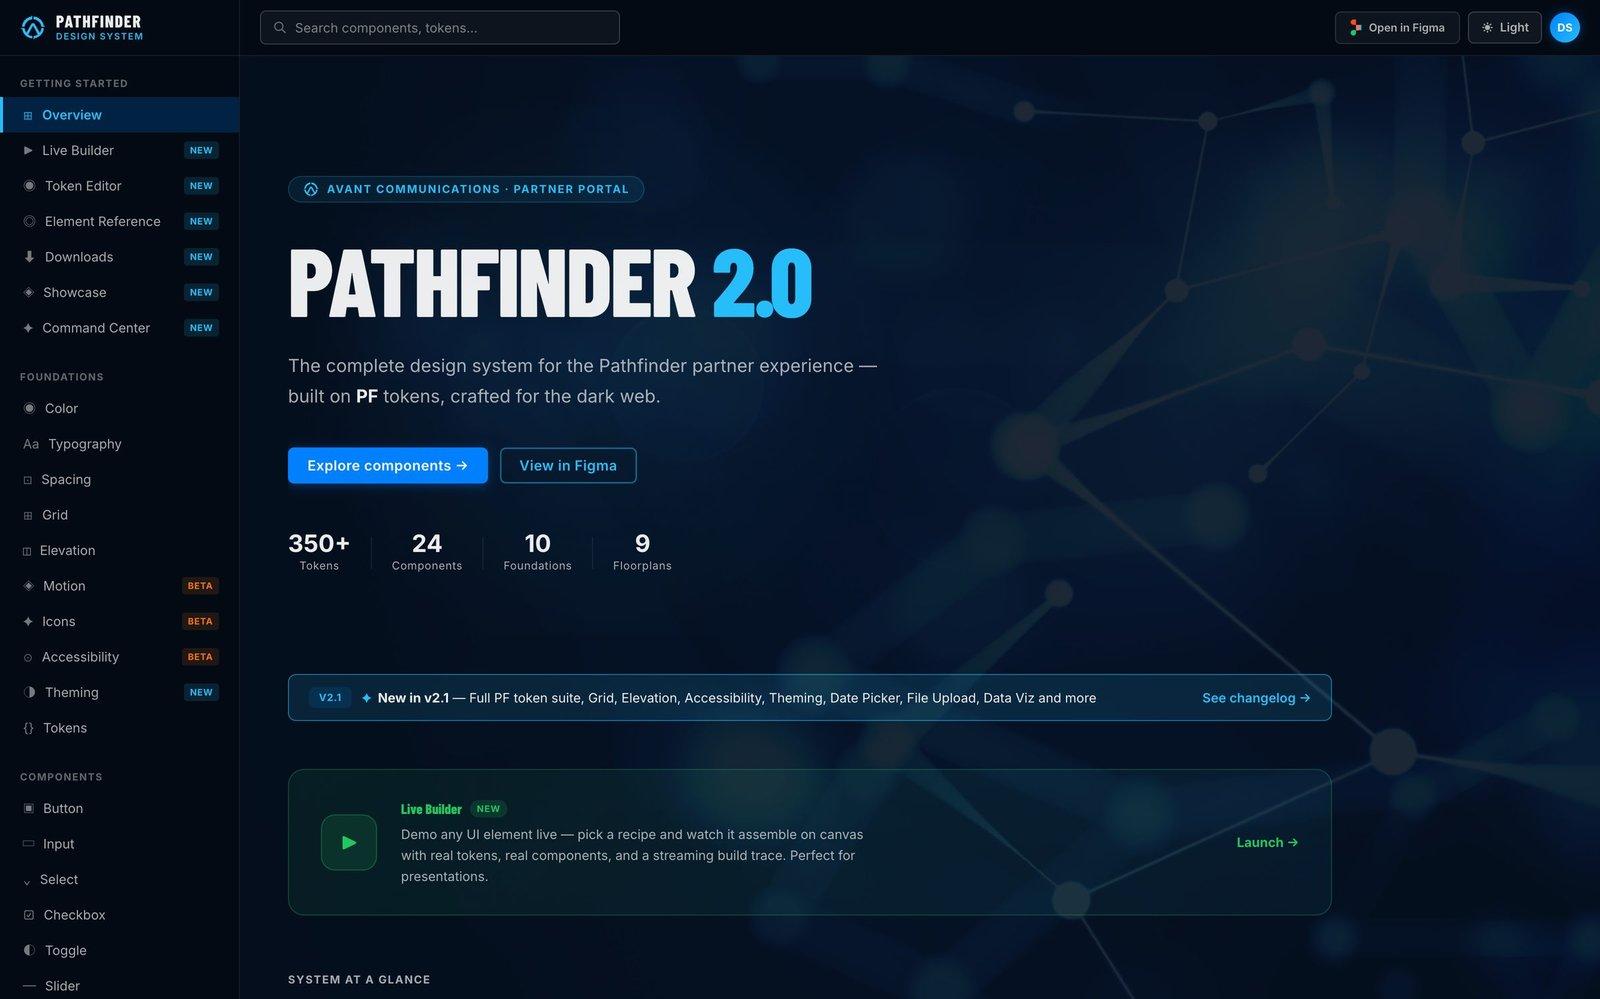
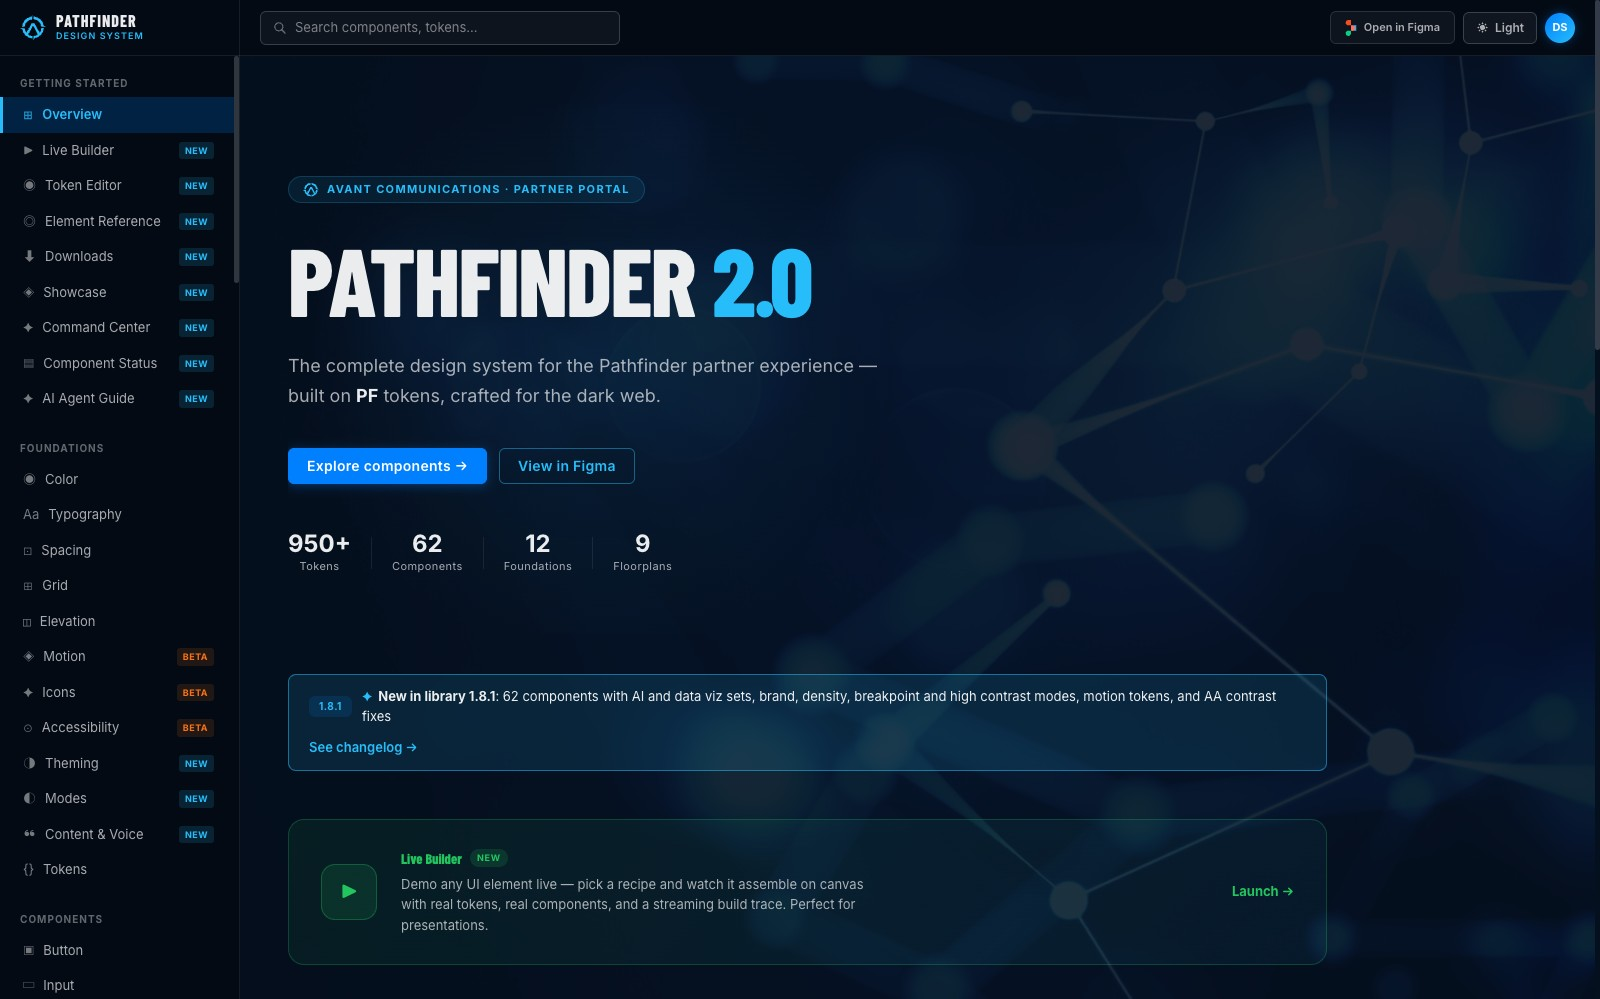
Pathfinder pages: link the live docs site and Figma library; NorthStar Figma slug
- pathfinder.html and process/pathfinder-case-study.html now open
  pathfinder-docs.vercel.app (library 1.8.1) instead of the old
  figma.site and Figma Make builds, with a Figma library button
  (ysLgPqCzELzxKw6KVZdKjE)
- fresh docs-site screenshot replaces the Figma Make shot
- NorthStar Figma link slug reads NorthStar-Design-System
  (file key VZxmDNQiosTN6gqnvEQ65Z unchanged)

diff --git a/process/pathfinder-case-study.html b/process/pathfinder-case-study.html
@@ -83,7 +83,8 @@
         <span class="tag tag-outline">v2.1.0</span>
       </div>
       <div style="display:flex;flex-wrap:wrap;gap:12px;margin-top:32px;">
-        <a class="btn cs-cta" href="https://www.figma.com/make/pLGXGE6GnS3t4sJ4SHj9ZI/PATHFINDER-DESIGN-SYSTEM-2.1?fullscreen=1" target="_blank" rel="noopener">Open the live system ↗</a>
+        <a class="btn cs-cta" href="https://pathfinder-docs.vercel.app/" target="_blank" rel="noopener">Open the live system ↗</a>
+        <a class="btn btn-secondary" href="https://www.figma.com/design/ysLgPqCzELzxKw6KVZdKjE/Pathfinder-2.0-Design-System" target="_blank" rel="noopener" style="padding:12px 22px;font-size:15px;">Figma library ↗</a>
         <a class="btn btn-secondary" href="#audit" style="padding:12px 22px;font-size:15px;">Skip to the findings</a>
         <a class="btn btn-secondary" href="../pathfinder.html" style="padding:12px 22px;font-size:15px;">Read the case study</a>
       </div>
@@ -104,19 +105,19 @@
     </div>
   </header>
 
-  <a class="cs-shot" href="https://www.figma.com/make/pLGXGE6GnS3t4sJ4SHj9ZI/PATHFINDER-DESIGN-SYSTEM-2.1?fullscreen=1" target="_blank" rel="noopener" aria-label="Open the live Pathfinder 2.1 build in Figma Make, new tab">
+  <a class="cs-shot" href="https://pathfinder-docs.vercel.app/" target="_blank" rel="noopener" aria-label="Open the live Pathfinder 2.1 docs site, new tab">
     <div class="cs-shot-bar" aria-hidden="true">
       <span class="cs-dots"><i></i><i></i><i></i></span>
-      <span class="cs-url">figma.com/make/PATHFINDER-DESIGN-SYSTEM-2.1</span>
+      <span class="cs-url">pathfinder-docs.vercel.app</span>
       <span class="cs-live">Live build</span>
     </div>
     <div class="cs-shot-view">
-      <img src="assets/pathfinder-live-overview.jpg" width="1600" height="999" alt="Pathfinder 2.0 overview page running in Figma Make: left navigation listing foundations and components, a hero reading Pathfinder 2.0, and counts for tokens, components, foundations and floorplans." fetchpriority="high">
+      <img src="assets/pathfinder-live-overview.jpg" width="1600" height="999" alt="Pathfinder 2.1 docs site overview: left navigation listing foundations and components, a hero reading Pathfinder 2.0, and counts for tokens, components, foundations and floorplans." fetchpriority="high">
     </div>
     <div class="cs-shot-cap">
         <span style="display:flex;flex-direction:column;gap:6px;max-width:52ch;">
           <span style="font-size:clamp(18px,2.4vw,26px);line-height:1.2;font-weight:500;letter-spacing:-0.01em;">The system itself, running from code</span>
-          <span style="font-size:14px;line-height:1.5;color:color-mix(in srgb, var(--color-text) 80%, transparent);">This page is the audit. The build is live in Figma Make, so every foundation, component and theme below can be clicked instead of taken on faith.</span>
+          <span style="font-size:14px;line-height:1.5;color:color-mix(in srgb, var(--color-text) 80%, transparent);">This page is the audit. The build is live as a docs site, so every foundation, component and theme below can be clicked instead of taken on faith.</span>
         </span>
         <span class="btn cs-cta" style="pointer-events:none;">Open it ↗</span>
     </div>
@@ -138,7 +139,7 @@
     </div>
   </div>
 
-  <nav class="cs-toc" aria-label="Case study sections"><div class="cs-toc-in"><a href="#intake"><span>01</span>Intake</a><a href="#inventory"><span>02</span>Inventory</a><a href="#audit"><span>03</span>Audit</a><a href="#map"><span>04</span>Map</a><a href="#standards"><span>05</span>Standards</a><a href="#critique"><span>06</span>Critique</a><a href="#governance"><span>07</span>Governance</a><a href="#measurement"><span>08</span>Measurement</a><a href="#gaps"><span>09</span>Gaps</a><a class="cs-toc-live" href="https://www.figma.com/make/pLGXGE6GnS3t4sJ4SHj9ZI/PATHFINDER-DESIGN-SYSTEM-2.1?fullscreen=1" target="_blank" rel="noopener">Live system ↗</a></div></nav>
+  <nav class="cs-toc" aria-label="Case study sections"><div class="cs-toc-in"><a href="#intake"><span>01</span>Intake</a><a href="#inventory"><span>02</span>Inventory</a><a href="#audit"><span>03</span>Audit</a><a href="#map"><span>04</span>Map</a><a href="#standards"><span>05</span>Standards</a><a href="#critique"><span>06</span>Critique</a><a href="#governance"><span>07</span>Governance</a><a href="#measurement"><span>08</span>Measurement</a><a href="#gaps"><span>09</span>Gaps</a><a class="cs-toc-live" href="https://pathfinder-docs.vercel.app/" target="_blank" rel="noopener">Live system ↗</a></div></nav>
   <div style="height:clamp(40px,6vw,72px);"></div>
 
   <section id="intake" class="cs-sec" style="display:flex;flex-wrap:wrap;gap:clamp(24px,4vw,56px);">
@@ -524,7 +525,7 @@
     <div style="display:flex;flex-wrap:wrap;gap:12px;">
       <a class="btn btn-primary" href="skill-library.html">Read the skill library</a>
       <a class="btn btn-secondary" href="process-walkthrough.html">See the process deck</a>
-      <a class="btn btn-secondary" href="https://www.figma.com/make/pLGXGE6GnS3t4sJ4SHj9ZI/PATHFINDER-DESIGN-SYSTEM-2.1?fullscreen=1" target="_blank" rel="noopener">Open Pathfinder live ↗</a>
+      <a class="btn btn-secondary" href="https://pathfinder-docs.vercel.app/" target="_blank" rel="noopener">Open Pathfinder live ↗</a>
     </div>
   </section>
 

diff --git a/pathfinder.html b/pathfinder.html
@@ -463,7 +463,7 @@ footer{background:rgba(0,0,0,.84)}
   <div class="hero-wordmark rv"><svg viewBox="0 0 48 48" fill="none" aria-hidden="true"><circle class="ring" cx="24" cy="24" r="20" stroke="#0099ff" stroke-width="3.5" stroke-dasharray="26 8"/><path d="M24 11 33 36l-9-6-9 6z" fill="#fff"/><path d="M24 11v19" stroke="#0099ff" stroke-width="2.5"/></svg><div><b>PATHFINDER</b><small>Powered by AVANT · 2.0</small></div></div>
   <span class="eyebrow rv">Case study · AVANT Communications · 2021 to 2024</span>
   <h1 class="rv" style="--i:1">Pathfinder is one place to run a deal, from first request to signed contract.</h1>
-  <div class="btns rv" style="--i:2"><a class="btn" href="#problem">Read the case study</a><a class="btn k" href="#results">Skip to results ↓</a><a class="btn b" href="https://omen-jade-96449641.figma.site/" target="_blank" rel="noopener"><i class="live" aria-hidden="true"></i>Live design system ↗</a></div>
+  <div class="btns rv" style="--i:2"><a class="btn" href="#problem">Read the case study</a><a class="btn k" href="#results">Skip to results ↓</a><a class="btn b" href="https://pathfinder-docs.vercel.app/" target="_blank" rel="noopener"><i class="live" aria-hidden="true"></i>Live design system ↗</a></div>
   <div class="facts rv" style="--i:3"><span>Role<b>Lead product designer</b></span><span>Team<b>1 designer, 1 PM, 3 engineers</b></span><span>Platform<b>B2B web app</b></span><span>Scope<b>Research, UX, UI, design system</b></span></div>
   <div class="hero-panel rv" style="--i:3">
     <figure class="frame"><img src="ASSETS/work/pathfinder-case/final-dashboard.jpg" alt="Pathfinder 2.0 dashboard in the final dark theme: sidebar navigation, sales by technology, a yearly chart and project files with status."></figure></div>
@@ -592,8 +592,9 @@ footer{background:rgba(0,0,0,.84)}
       <p class="dg-n" style="margin:0"><b>Pathfinder 2.1 is a working build, not a set of screens.</b> Tokens, foundations, every component with its states, dark and light themes, and a changelog. It has grown past the shipped UI above, so treat it as the library the product draws from, not a mirror of it.</p>
     </div>
     <div class="btns" style="margin:0;flex:none">
-      <a class="btn k" href="https://omen-jade-96449641.figma.site/" target="_blank" rel="noopener">Open the live system ↗</a>
-      <a class="btn" href="https://omen-jade-96449641.figma.site/changelog" target="_blank" rel="noopener">Changelog ↗</a>
+      <a class="btn k" href="https://pathfinder-docs.vercel.app/" target="_blank" rel="noopener">Open the live system ↗</a>
+      <a class="btn" href="https://pathfinder-docs.vercel.app/changelog" target="_blank" rel="noopener">Changelog ↗</a>
+      <a class="btn" href="https://www.figma.com/design/ysLgPqCzELzxKw6KVZdKjE/Pathfinder-2.0-Design-System" target="_blank" rel="noopener">Figma library ↗</a>
     </div>
   </div>
 </div></section>

diff --git a/northstar/js/home.js b/northstar/js/home.js
@@ -2,7 +2,7 @@
    NS.homeBody() returns markup; NS.homeInit() wires motion and returns a cleanup function. */
 (function () {
   const NS = window.NS;
-  const FIGMA = "https://www.figma.com/design/VZxmDNQiosTN6gqnvEQ65Z/PATHFINDER-Design-System";
+  const FIGMA = "https://www.figma.com/design/VZxmDNQiosTN6gqnvEQ65Z/NorthStar-Design-System";
 
   // 24px line icons, same 1.75 stroke language as NS.svgIcon.
   const P = {

diff --git a/northstar/js/pages.js b/northstar/js/pages.js
@@ -2,7 +2,7 @@
 (function () {
   const NS = window.NS;
   const { h2, h3, table, dd, notice, cards, stage, codeBlock } = NS;
-  const FIGMA = "https://www.figma.com/design/VZxmDNQiosTN6gqnvEQ65Z/PATHFINDER-Design-System";
+  const FIGMA = "https://www.figma.com/design/VZxmDNQiosTN6gqnvEQ65Z/NorthStar-Design-System";
   NS.FIGMA = FIGMA;
   NS.VERSION = "v1.4.0";
 
